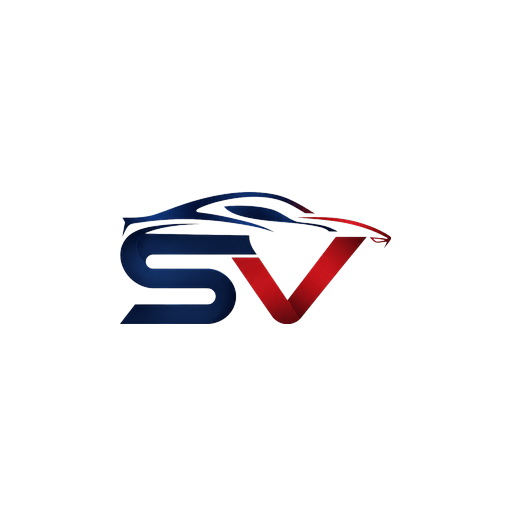
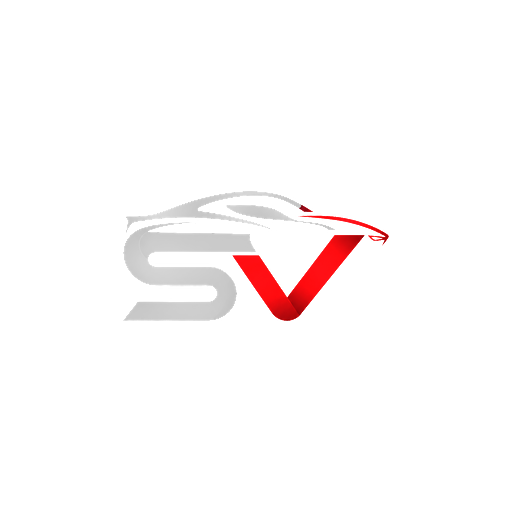
feat(mobile): icones full-bleed no navy da marca
O icone era a logo sobre chapa branca. Alem de destoar da interface escura do
app, era ele que aparecia como quadrado branco na tela de carregamento do
expo-dev-client, sobreposto ao app ja renderizado.

Agora o tile e preenchido com o navy da propria marca (#0e2349, mediana dos
azuis do logo) e o simbolo vai em branco/vermelho, mesma recolorizacao ja usada
na splash do tema escuro. Sem chapa, sem quadrado flutuante.

- icon.png: 1024px, degrade navy, sem canal alfa (a App Store recusa com alfa)
- android-icon-foreground/background.png: mesma identidade no adaptive icon,
  fundo chapado porque o parallax do Android denunciaria o degrade, e marca a
  52% do tile para caber na area segura da mascara circular
- app.json: adaptiveIcon.backgroundColor de #E6F4FE para o navy
- favicon.png: de 48px para 192px, o desenho do carro sumia na reducao
- scripts/gerar-splash-assets.py passa a gerar splash e icones no mesmo pipeline

android-icon-monochrome.png fica como esta: o Android usa so o alfa dele.

Claude-Session: https://claude.ai/code/session_01F7ECVyYQRNFeyB3AYKwhjM

Changed region(s): [[0.2188, 0.375, 0.7812, 0.6562]]

diff --git a/scripts/gerar-splash-assets.py b/scripts/gerar-splash-assets.py
@@ -1,15 +1,23 @@
 #!/usr/bin/env python3
-"""Gera os assets da splash screen do app mobile a partir de assets/logo.png.
+"""Gera os assets de splash e de icone do app mobile a partir de assets/logo.png.
 
 Saidas (apps/mobile/assets/):
-  splash-icon.png       logotipo colorido, fundo transparente  -> tema claro
-  splash-icon-dark.png  mesma marca em branco/vermelho          -> tema escuro
+  splash-icon.png             lockup colorido, fundo transparente -> splash tema claro
+  splash-icon-dark.png        lockup em branco/vermelho           -> splash tema escuro
+  icon.png                    tile navy full-bleed, sem alfa      -> icone iOS/geral
+  android-icon-foreground.png marca em branco/vermelho            -> adaptive icon
+  android-icon-background.png tile navy chapado                   -> adaptive icon
+  favicon.png                 tile navy 48px                      -> web
 
 O fundo branco vira transparencia por uma rampa suave de cobertura, o que
 preserva o antialiasing original do desenho. A origem e logo.png (marca sobre
 papel branco) e nao splash-icon.png: as versoes anteriores foram recortadas em
 cima de uma arte que ja tinha uma placa clara embutida, e o que sobrava era o
 halo dessa placa - o "quadrado" que aparecia atras da marca.
+
+Os icones sao full-bleed no navy da marca em vez de logo sobre chapa branca,
+que era o que fazia o app aparecer como um quadrado branco flutuando sobre a
+interface escura.
 
 Uso: python3 scripts/gerar-splash-assets.py
 """
@@ -26,8 +34,19 @@ ORIGEM = ASSETS / "logo.png"
 # Marca + assinatura "SOCIAL VEICULOS"; o slogan miudo fica de fora porque na
 # largura da splash (~240dp) ele virava um borrao.
 RECORTE = (215, 296, 1066, 950)  # left, top, right, bottom
+# So o simbolo do carro: em tamanho de icone a assinatura vira ilegivel.
+RECORTE_MARCA = (239, 296, 1066, 702)
 MARGEM = 0.04  # respiro proporcional ao redor da marca
 LADO = 1024
+
+# Navy da propria marca (mediana dos azuis do logo ~ #0b1f47), com um degrade
+# vertical discreto para o tile nao ficar chapado demais.
+NAVY_TOPO = (0x14, 0x30, 0x60)
+NAVY_BASE = (0x08, 0x16, 0x33)
+# O icone do Android e mascarado em circulo e ainda sofre parallax: so os ~66%
+# centrais sao garantidos, entao a marca ocupa bem menos que no tile do iOS.
+OCUPACAO_IOS = 0.68
+OCUPACAO_ANDROID = 0.52
 # O "branco" de logo.png nao e puro: tem ruido de compressao por volta de #fdfdfc.
 # Sem o piso esse ruido virava alfa residual e reaparecia como uma placa
 # retangular atras da marca - o quadrado que se via na abertura do app.
@@ -79,13 +98,13 @@ def _para_imagem(rgba: np.ndarray) -> Image.Image:
     return Image.fromarray((np.clip(rgba, 0, 1) * 255).round().astype(np.uint8), "RGBA")
 
 
-def _enquadrar(rgba: np.ndarray) -> Image.Image:
-    """Encaixa a marca num quadrado de LADO px preservando a proporcao."""
+def _enquadrar(rgba: np.ndarray, lado: int = LADO, ocupacao: float = 1 - 2 * MARGEM) -> Image.Image:
+    """Encaixa a marca num quadrado de `lado` px preservando a proporcao."""
     imagem = _para_imagem(rgba)
     caixa = imagem.getchannel("A").point(lambda v: 255 if v > 8 else 0).getbbox()
     imagem = imagem.crop(caixa)
 
-    util = int(LADO * (1 - 2 * MARGEM))
+    util = int(lado * ocupacao)
     escala = min(util / imagem.width, util / imagem.height)
     destino = (max(1, round(imagem.width * escala)), max(1, round(imagem.height * escala)))
 
@@ -99,19 +118,50 @@ def _enquadrar(rgba: np.ndarray) -> Image.Image:
     alfa = np.maximum(reduzida[..., 3:4], 1e-6)
     reduzida[..., :3] = np.clip(reduzida[..., :3] / alfa, 0.0, 1.0)
 
-    tela = Image.new("RGBA", (LADO, LADO), (0, 0, 0, 0))
-    tela.paste(_para_imagem(reduzida), ((LADO - destino[0]) // 2, (LADO - destino[1]) // 2))
+    tela = Image.new("RGBA", (lado, lado), (0, 0, 0, 0))
+    tela.paste(_para_imagem(reduzida), ((lado - destino[0]) // 2, (lado - destino[1]) // 2))
     return tela
 
 
-def main() -> None:
-    base = Image.open(ORIGEM).convert("RGB").crop(RECORTE)
-    rgba = _recortar_fundo(base)
+def _tile_navy(lado: int, chapado: bool = False) -> Image.Image:
+    """Fundo navy full-bleed do icone."""
+    if chapado:
+        # O adaptive icon do Android desloca o fundo no parallax, entao ali o
+        # degrade denunciaria o movimento: usa o tom medio do mesmo navy.
+        medio = tuple((NAVY_TOPO[i] + NAVY_BASE[i]) // 2 for i in range(3))
+        return Image.new("RGBA", (lado, lado), medio + (255,))
+    rampa = np.linspace(0.0, 1.0, lado)[:, None]
+    canais = [NAVY_TOPO[i] + (NAVY_BASE[i] - NAVY_TOPO[i]) * rampa for i in range(3)]
+    coluna = np.dstack(canais + [np.full_like(rampa, 255.0)])
+    return Image.fromarray(np.repeat(coluna, lado, axis=1).round().astype(np.uint8), "RGBA")
 
-    _enquadrar(rgba).save(ASSETS / "splash-icon.png")
-    _enquadrar(_versao_escura(rgba)).save(ASSETS / "splash-icon-dark.png")
-    print(f"gerado: {ASSETS / 'splash-icon.png'}")
-    print(f"gerado: {ASSETS / 'splash-icon-dark.png'}")
+
+def _icone(marca: np.ndarray, lado: int, ocupacao: float) -> Image.Image:
+    """Marca clara sobre o tile navy, sem alfa (a App Store recusa icone com alfa)."""
+    tile = _tile_navy(lado)
+    tile.alpha_composite(_enquadrar(marca, lado, ocupacao))
+    return tile.convert("RGB")
+
+
+def main() -> None:
+    origem = Image.open(ORIGEM).convert("RGB")
+
+    lockup = _recortar_fundo(origem.crop(RECORTE))
+    marca_clara = _versao_escura(_recortar_fundo(origem.crop(RECORTE_MARCA)))
+
+    saidas = {
+        "splash-icon.png": _enquadrar(lockup),
+        "splash-icon-dark.png": _enquadrar(_versao_escura(lockup)),
+        "icon.png": _icone(marca_clara, LADO, OCUPACAO_IOS),
+        "android-icon-foreground.png": _enquadrar(marca_clara, 512, OCUPACAO_ANDROID),
+        "android-icon-background.png": _tile_navy(512, chapado=True),
+        # O favicon antigo tinha 48px e o desenho do carro sumia na reducao;
+        # sai maior e mais preenchido para o browser ter o que reamostrar.
+        "favicon.png": _icone(marca_clara, 192, 0.80),
+    }
+    for nome, imagem in saidas.items():
+        imagem.save(ASSETS / nome)
+        print(f"gerado: {ASSETS / nome}")
 
 
 if __name__ == "__main__":
